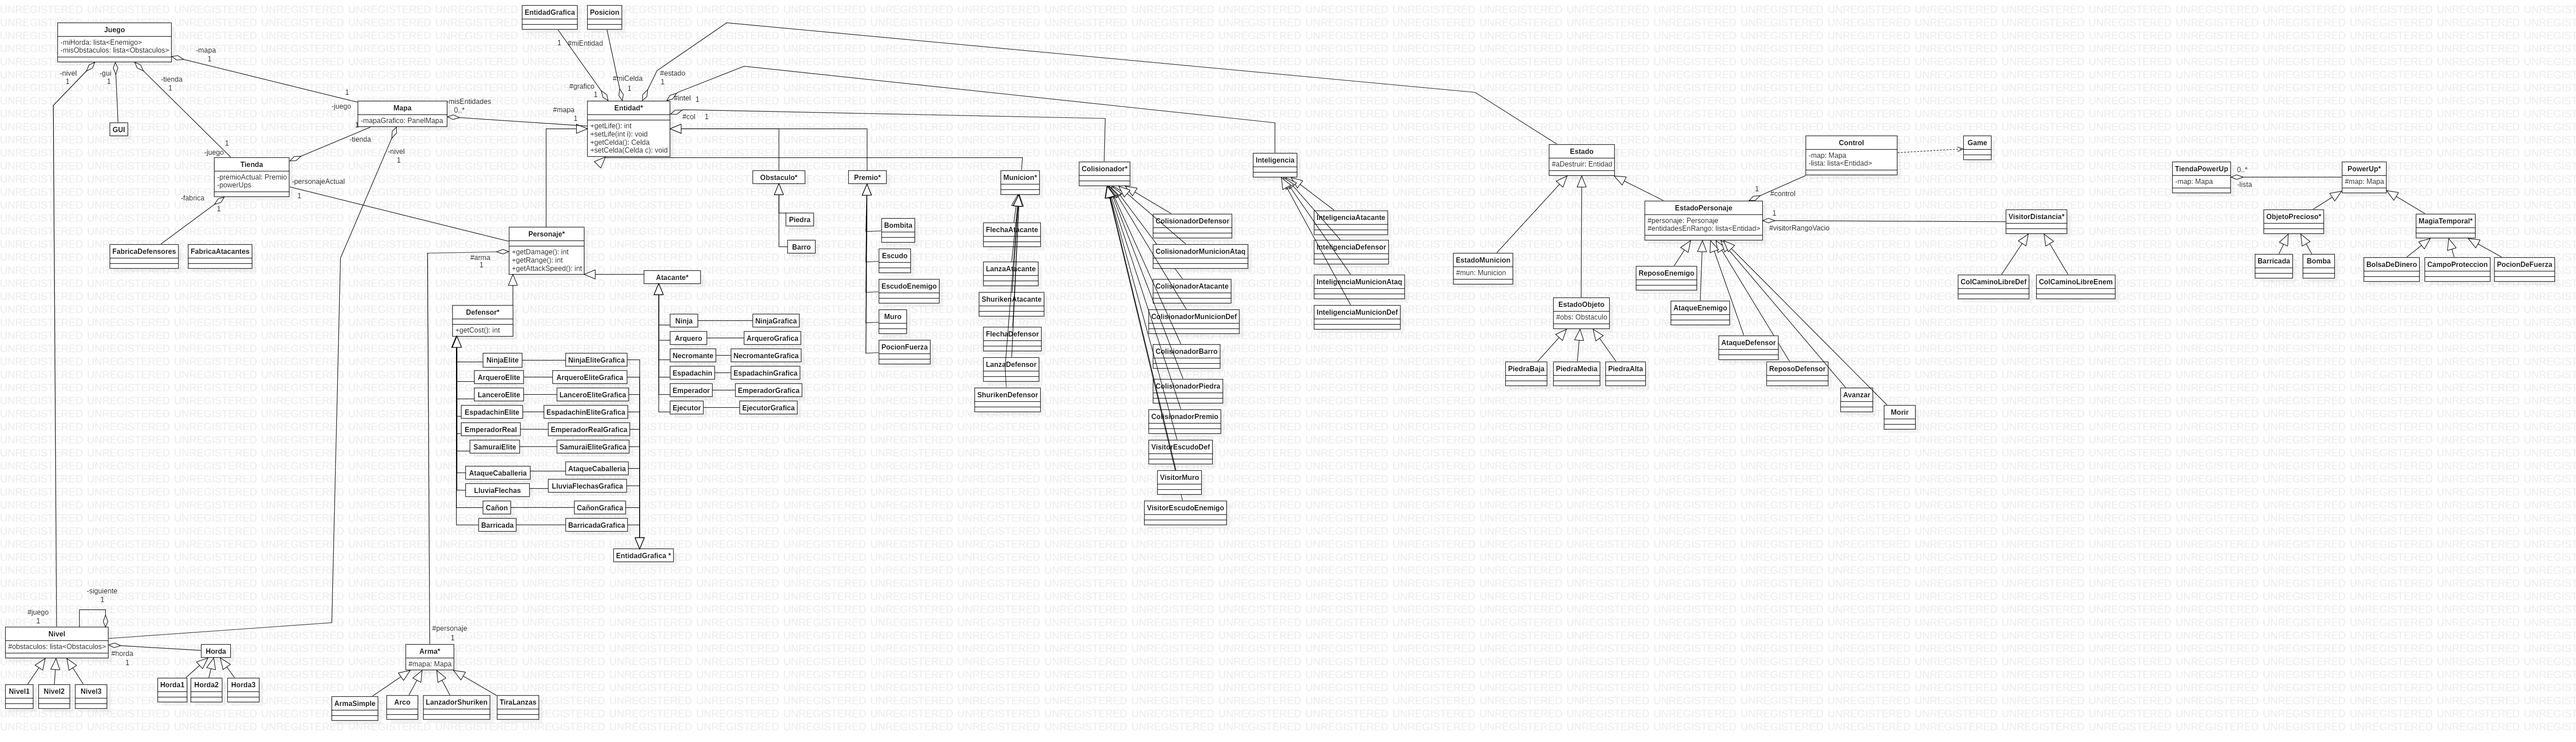
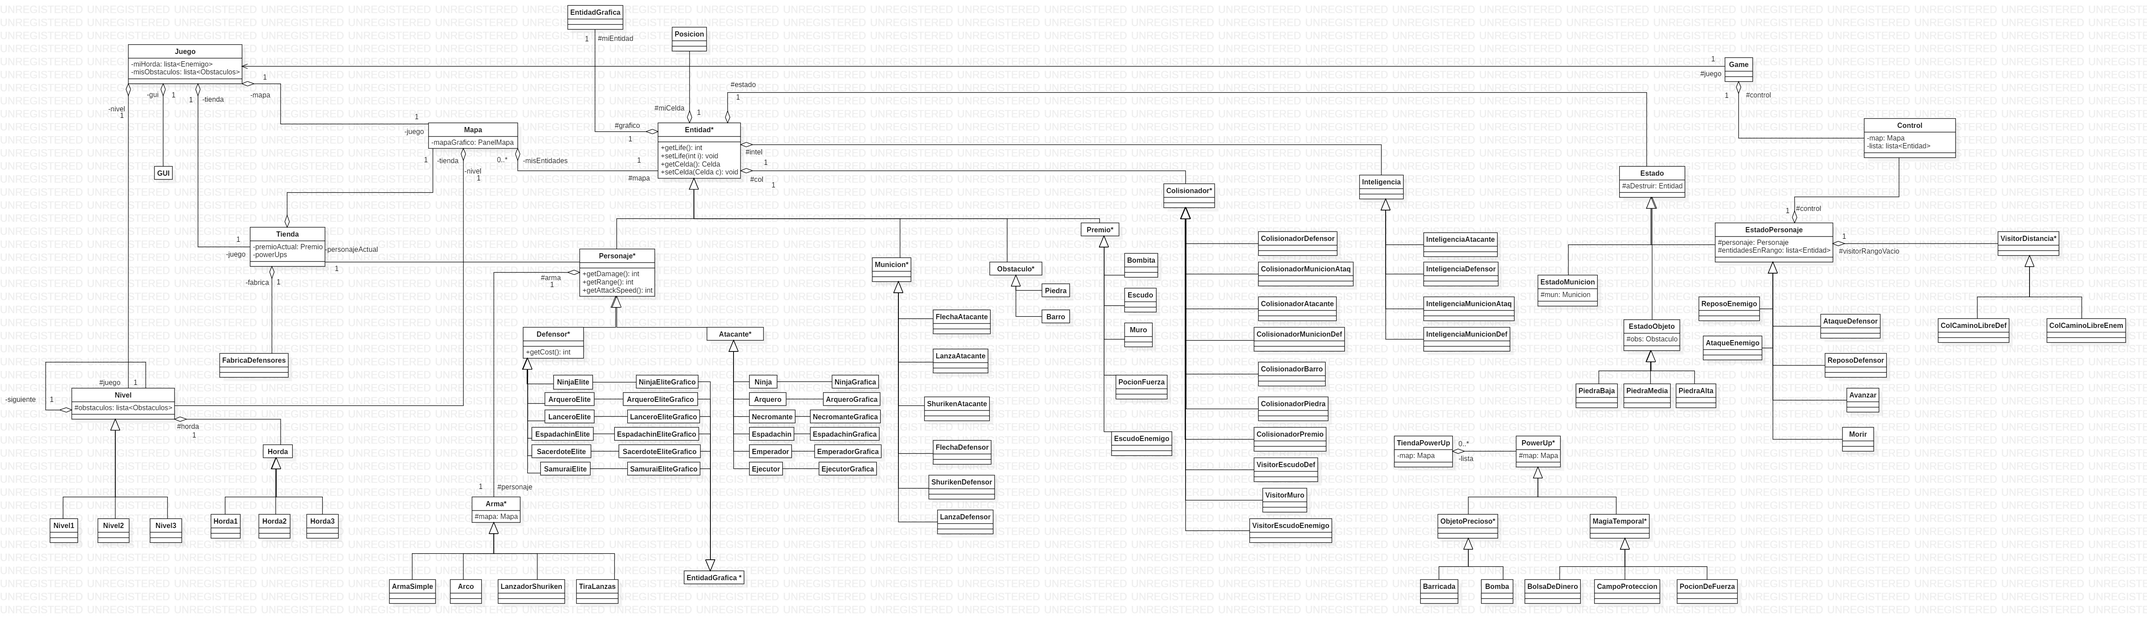
Actualización del UML, modificación en los colisionadores

diff --git a/TOWERDEFENSECODE/SamuraiDefense/src/Logica/Entidades/Premios/EscudoDef.java b/TOWERDEFENSECODE/SamuraiDefense/src/Logica/Entidades/Premios/EscudoDef.java
@@ -18,9 +18,17 @@ public class EscudoDef extends Premio {
 		col = new VisitorEscudoDef();
 	}
 
+	private void ubicarEscudo() {
+		if (entidad != null) {
+			this.setPos(entidad.getPos());
+			int y = (int) this.getPos().getY();
+			int x = (int) this.getPos().getX() + 10;
+			this.getPos().setPos(x, y);
+		}
+	}
+
 	@Override
 	public boolean chocaraDistancia(VisitorDistancia v) {
-		// TODO Auto-generated method stub
 		return v.serChocado(this);
 	}
 
@@ -31,19 +39,14 @@ public class EscudoDef extends Premio {
 
 	@Override
 	public void ejecutarEstado() {
-		if(entidad != null) {
-			this.setPos(entidad.getPos());
-			int y = (int) this.getPos().getY();
-			int x = (int) this.getPos().getX() + 10;
-			this.getPos().setPos(x, y);
-		}
+
 	}
 
 	@Override
 	public boolean queHago(int x, int y) {
 		Entidad ent = mapa.getEntidadEnPos(x, y);
 		boolean toret = false;
-		if(ent != null) {
+		if (ent != null) {
 			setEntidad(ent);
 			toret = true;
 		}
@@ -52,6 +55,7 @@ public class EscudoDef extends Premio {
 
 	private void setEntidad(Entidad ent) {
 		entidad = ent;
+		ubicarEscudo();
 	}
 
 }

diff --git a/TOWERDEFENSECODE/SamuraiDefense/src/Logica/Hilos/Control.java b/TOWERDEFENSECODE/SamuraiDefense/src/Logica/Hilos/Control.java
@@ -37,25 +37,6 @@ public class Control {
 		}
 	}
 
-	/*
-	 * Esta funcion determina si hay entidades en un rago y direccion del mapa. La
-	 * direccion a buscar depende del personaje que invoque la funcion.
-	 */
-	public Entidad hayEntidadEnRango(int x, int y, int rango, int direccion, Entidad miEntidad) {
-		boolean avanzar = false;
-		Entidad ent = null;
-		while (rango > 0 && !avanzar) {
-			avanzar = map.hayEnPos(x, y);
-			if (avanzar) {
-				ent = map.getEntidadEnPos(x, y);
-				ent.chocar(miEntidad.getColisionador());
-			}
-			rango--;
-			x += direccion;
-		}
-		return ent;
-	}
-
 	public LinkedList<Entidad> getEntidadesEnRango(int x, int y, int rango, int direccion, Entidad miEntidad) {
 		LinkedList<Entidad> lista = new LinkedList<Entidad>();
 		Entidad ent;

diff --git a/TOWERDEFENSECODE/SamuraiDefense/src/Logica/Entidades/Premios/EscudoEnemigo.java b/TOWERDEFENSECODE/SamuraiDefense/src/Logica/Entidades/Premios/EscudoEnemigo.java
@@ -6,7 +6,7 @@ import Logica.Colisionadores.Adistancia.VisitorDistancia;
 import Logica.Colisionadores.Premios.VisitorEscudoEnemigo;
 import Logica.Mapa.Mapa;
 
-public class EscudoEnemigo extends Premio{
+public class EscudoEnemigo extends Premio {
 
 	public EscudoEnemigo(int x, int y, Mapa m) {
 		super(x, y, m);
@@ -27,16 +27,16 @@ public class EscudoEnemigo extends Premio{
 
 	@Override
 	public void ejecutarEstado() {
-		
+
 	}
 
 	public void actualizarPos(double x, int y) {
 		this.cambiarPosLogica(x, y);
 	}
-	
+
 	@Override
 	public boolean queHago(int x, int y) {
 		return true;
 	}
-	
+
 }

diff --git a/TOWERDEFENSECODE/SamuraiDefense/src/Logica/Entidades/Municiones/MunicionesDefensor/MunicionDefensor.java b/TOWERDEFENSECODE/SamuraiDefense/src/Logica/Entidades/Municiones/MunicionesDefensor/MunicionDefensor.java
@@ -5,10 +5,11 @@ import Logica.Entidades.Municiones.Municion;
 import Logica.Inteligencia.InteligenciaMunicionDef;
 import Logica.Mapa.Mapa;
 
-public abstract class MunicionDefensor extends Municion{
+public abstract class MunicionDefensor extends Municion {
 
 	protected MunicionDefensor(int x, int y, Mapa m) {
 		super(x, y, m);
 		intel = new InteligenciaMunicionDef(this);
-		col = new ColisionadorMunicionDef(this);	}
+		col = new ColisionadorMunicionDef(this);
+	}
 }

diff --git a/TOWERDEFENSECODE/SamuraiDefense/src/Logica/Entidades/Municiones/MunicionesDefensor/FlechaDefensor.java b/TOWERDEFENSECODE/SamuraiDefense/src/Logica/Entidades/Municiones/MunicionesDefensor/FlechaDefensor.java
@@ -19,12 +19,7 @@ public class FlechaDefensor extends MunicionDefensor {
 	public void chocar(Colisionador e) {
 		e.serChocado(this);
 	}
-
-	@Override
-	public void ejecutarEstado() {
-		estado.ejecutar();		
-	}
-
+	
 	@Override
 	public boolean chocaraDistancia(VisitorDistancia v) {
 		return v.serChocado(this);

diff --git a/TOWERDEFENSECODE/SamuraiDefense/src/Logica/Juego/Juego.java b/TOWERDEFENSECODE/SamuraiDefense/src/Logica/Juego/Juego.java
@@ -105,8 +105,8 @@ public class Juego {
 		contadorEnemigos++;
 		Random rand = new Random();
 		int i = rand.nextInt(10);
-		if (i % 3 == 0)
-			asignarEscudo(atacante);
+		if (i % 3 == 0) {}
+			//asignarEscudo(atacante);
 	}
 
 	private void asignarEscudo(Entidad ent) {

diff --git a/TOWERDEFENSECODE/SamuraiDefense/src/Logica/Entidades/Municiones/MunicionesDefensor/LanzaDefensor.java b/TOWERDEFENSECODE/SamuraiDefense/src/Logica/Entidades/Municiones/MunicionesDefensor/LanzaDefensor.java
@@ -21,11 +21,6 @@ public class LanzaDefensor extends MunicionDefensor {
 	}
 	
 	@Override
-	public void ejecutarEstado() {
-		estado.ejecutar();		
-	}
-
-	@Override
 	public boolean chocaraDistancia(VisitorDistancia v) {
 		return v.serChocado(this);
 	}	
